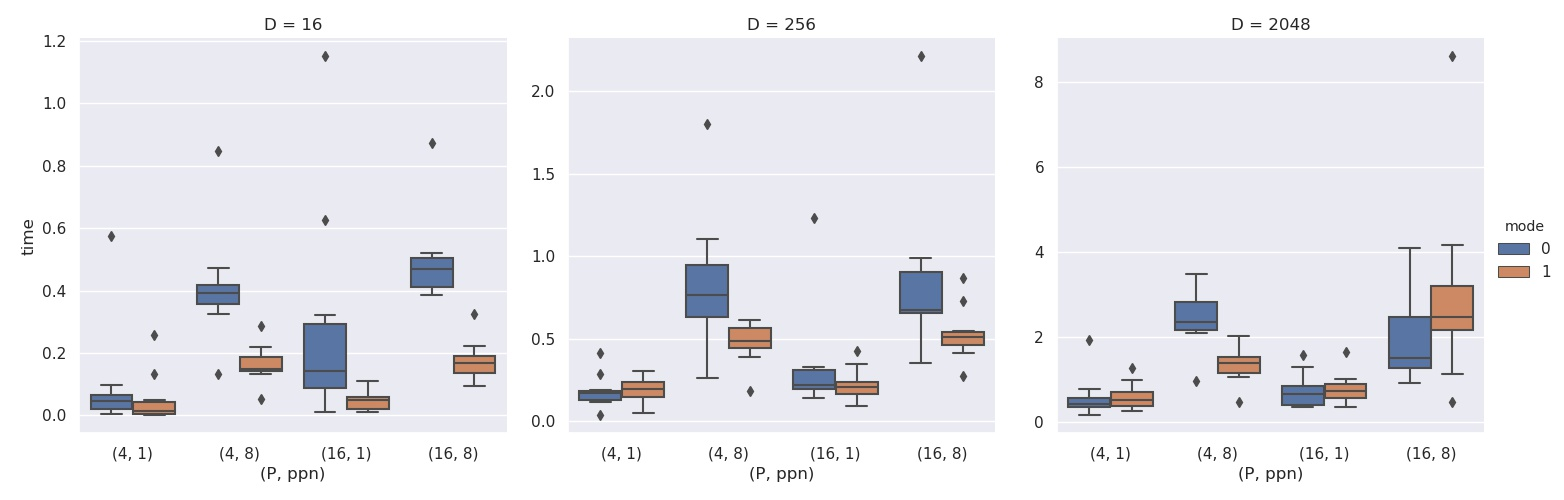
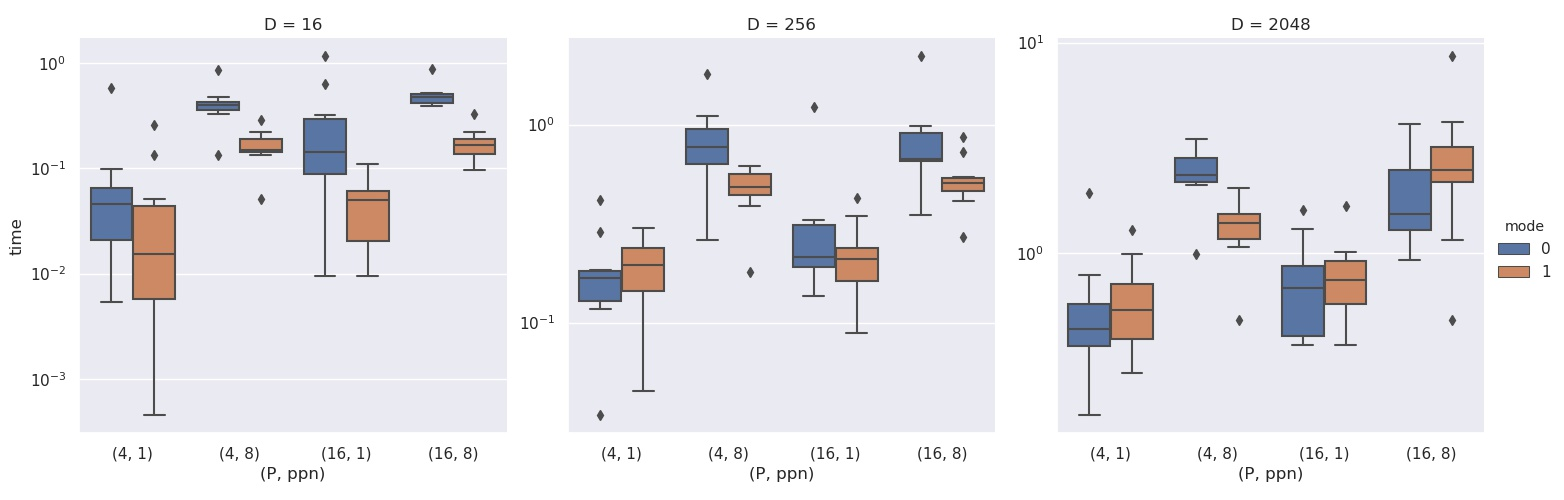
Plots.plot.py modified

diff --git a/Assignment2/plot.py b/Assignment2/plot.py
@@ -10,7 +10,7 @@ import numpy as np
 import matplotlib.pyplot as plt
 
 sns.set()
-
+#plt.yscale('log') 
 
 # In[48]:
 
@@ -18,8 +18,8 @@ for option in [1,2,3,4]:
     demo_input_format = pd.read_csv("data_{0}.csv".format(option))
     demo_input_format["(P, ppn)"] = list(map(lambda x, y: ("(" + x + ", " + y + ")"), map(str, demo_input_format["P"]), map(str, demo_input_format["ppn"])))
     print(demo_input_format)
-    sns.catplot(x="(P, ppn)", y="time", data=demo_input_format, kind="box", col="D", hue="mode", sharey=False)
-    #plt.show()
+    X=sns.catplot(x="(P, ppn)", y="time", data=demo_input_format, kind="box", col="D", hue="mode", sharey=False)
+    X.set(yscale='log')
     plt.savefig("plot_{0}.jpg".format(option))
 #demo_input_format = pd.DataFrame.from_dict({
 #    "D": [],
